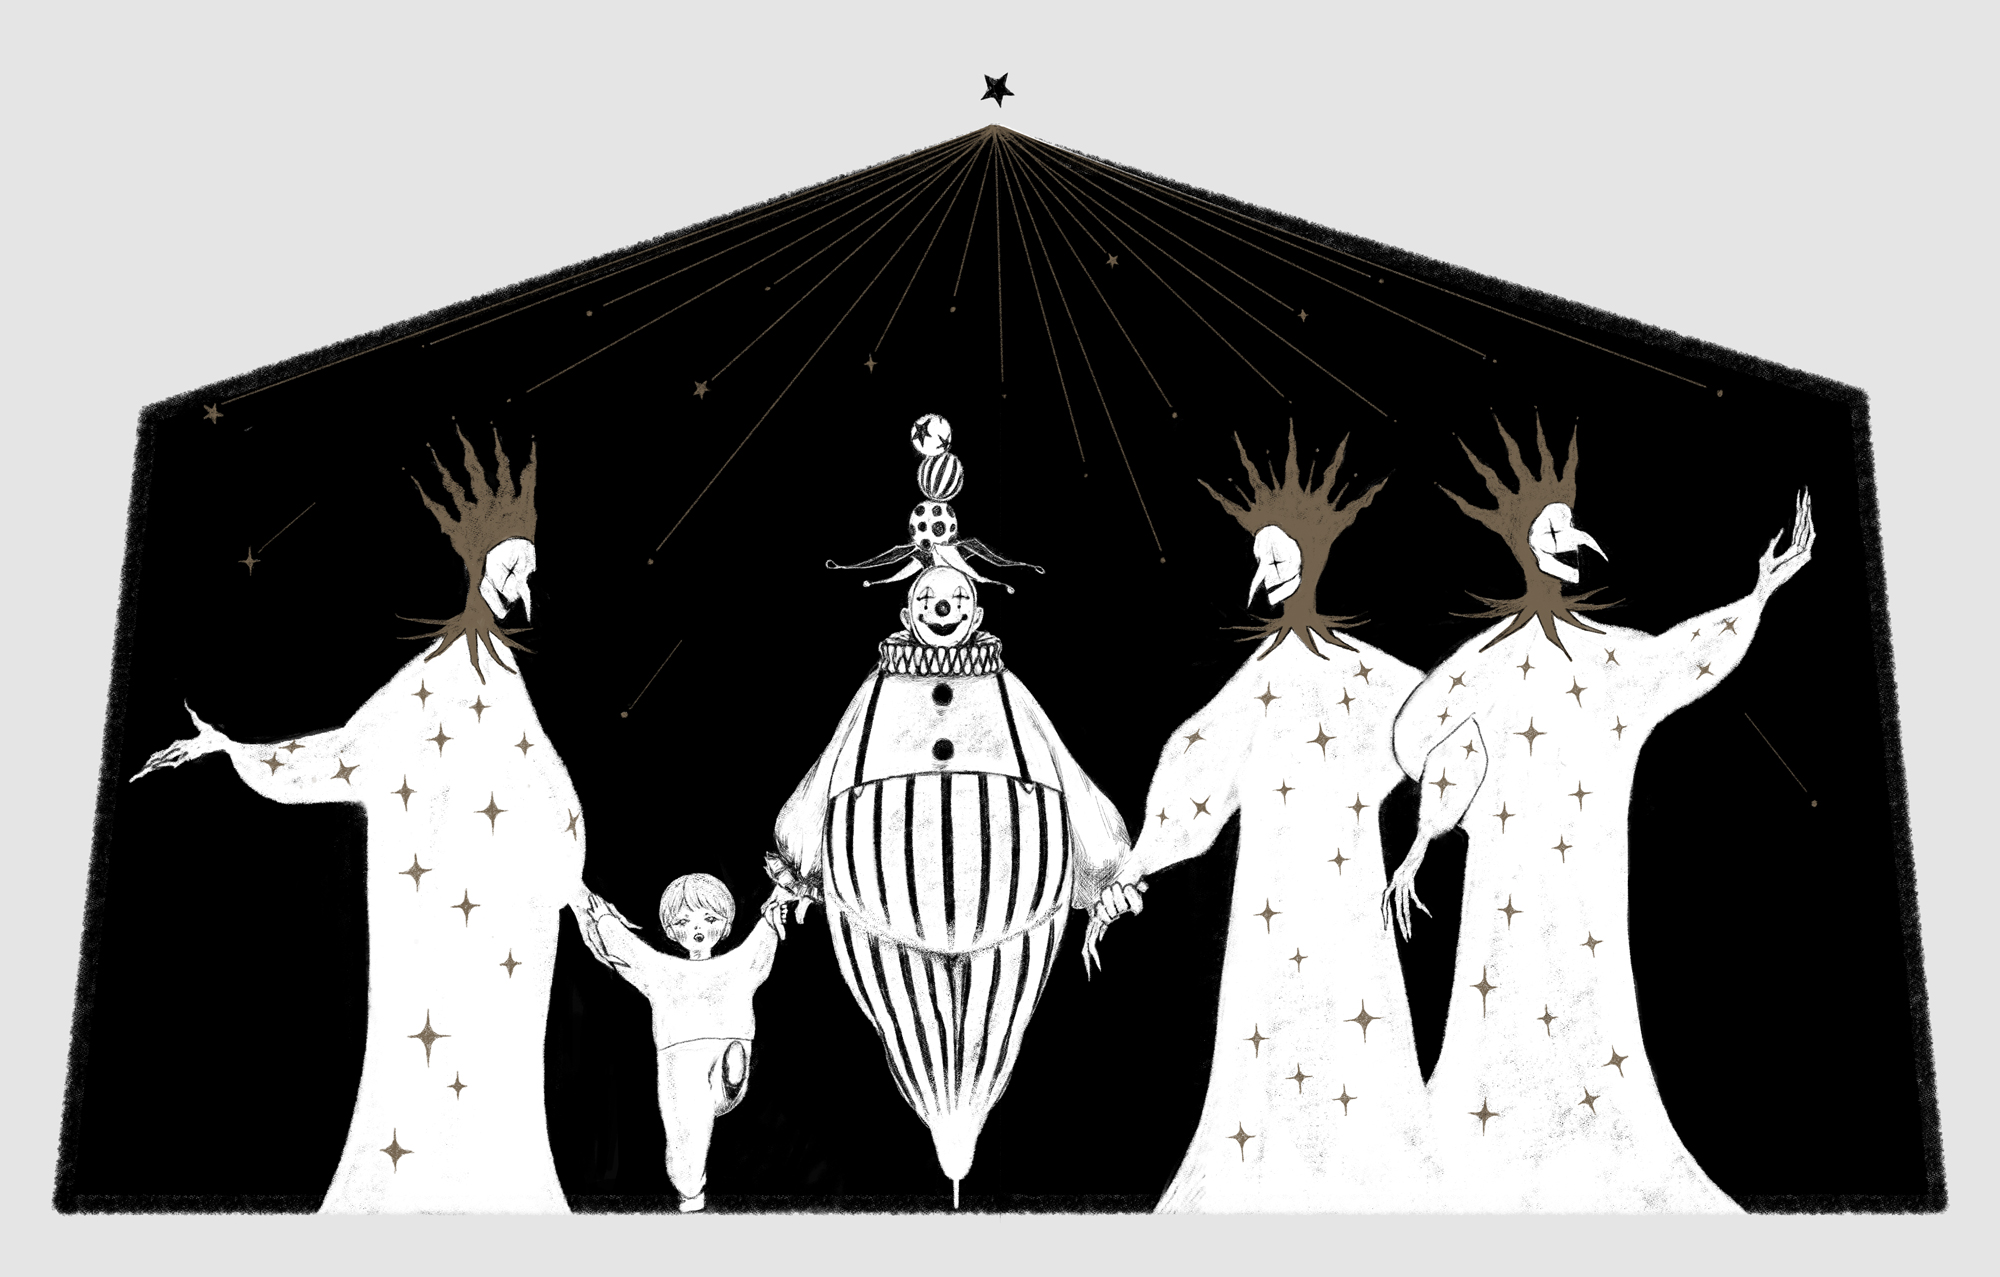
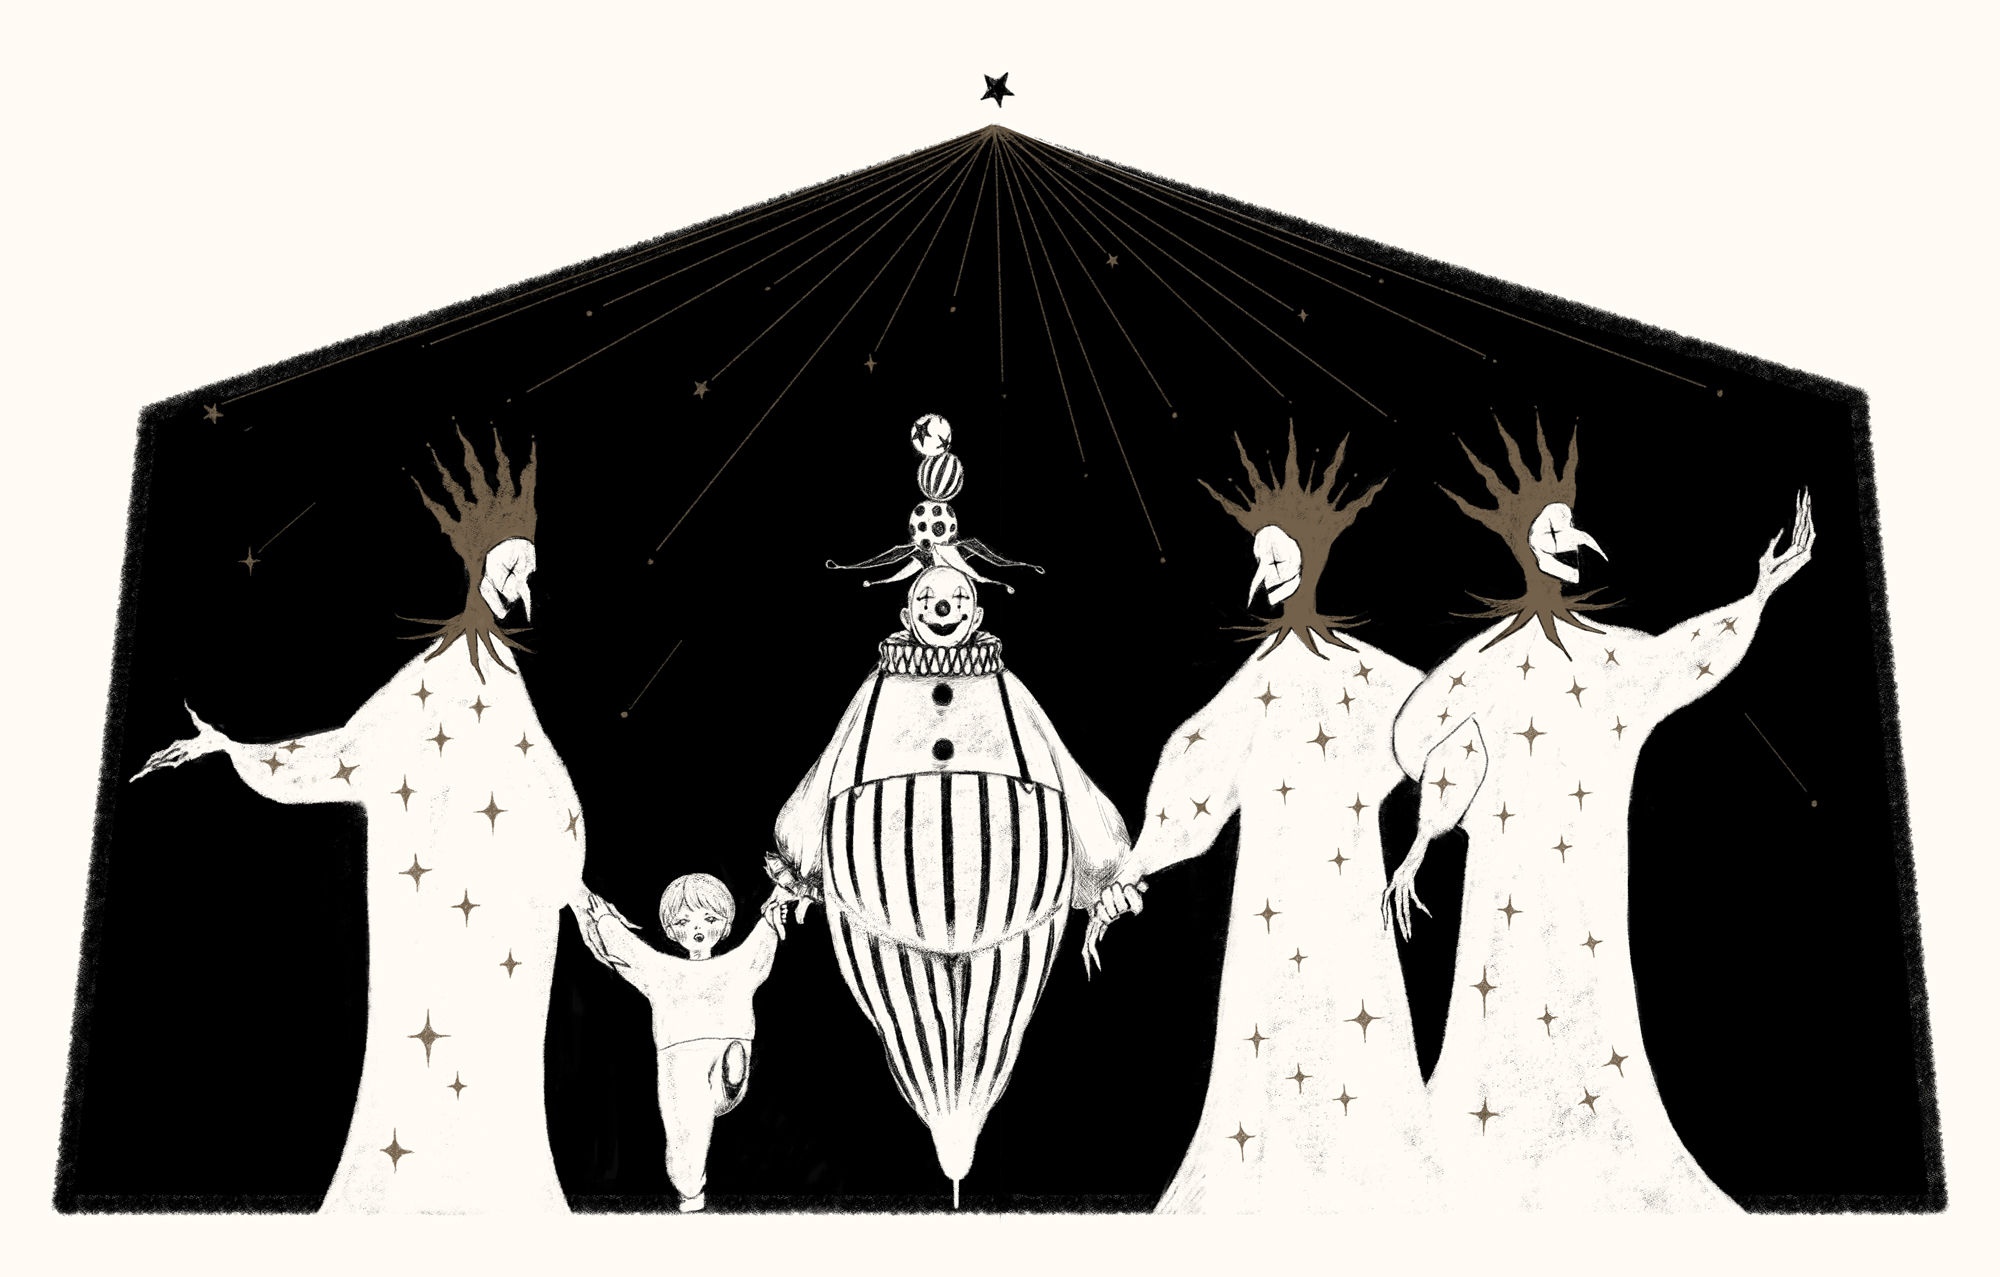
pc xscroll なしに

diff --git a/css/style.min.css b/css/style.min.css
@@ -1,2 +1,2 @@
-body{font-family:"fot-tsukuaoldmin-pr6n",sans-serif;font-weight:300;font-style:normal;letter-spacing:.1em;color:#333132;background:#fffbf4;line-height:1.5}a{text-decoration:none;color:#333132}ul,ol{list-style-type:none}img{max-width:100%;height:auto}.wrapper{max-width:100%;margin:0 auto;padding:0 4%}.flex{display:flex}@media(min-width: 769px){.xScroll{width:100vh;height:100vw;transform:rotate(-90deg) translateX(-100vh);transform-origin:top left;overflow-x:hidden;overflow-y:scroll;position:absolute;scrollbar-width:none;-ms-overflow-style:none;scroll-snap-type:y mandatory;scroll-behavior:smooth}.xScroll__box{display:flex;width:500vw;transform:rotate(90deg) translateY(-100vh);transform-origin:top left}.xScroll__slide{width:100vw;height:100vh;padding-left:0;scroll-snap-align:start}::-webkit-scrollbar{display:none}}header{height:90px;width:100%;padding:0 4%;background:#fffbf4;position:fixed;top:0;z-index:999}.mobile-menu{display:block}@media(min-width: 769px){.mobile-menu{display:none}}.desktop-menu{display:none}@media(min-width: 769px){.desktop-menu{display:block}}.gnav__logo{margin-top:20px;width:70px;height:70px;border-bottom:1px solid #333132}#g-nav{position:fixed;z-index:999;top:0;right:-120%;width:100%;height:100vh;background:#fffbf4;transition:all .6s}#g-nav.panelactive{right:0}#g-nav.panelactive #g-nav-list{position:fixed;z-index:999;width:100%;height:100vh;overflow:auto;-webkit-overflow-scrolling:touch}#g-nav ul{position:absolute;z-index:999;top:50%;left:50%;transform:translate(-50%, -50%)}#g-nav li{list-style:none;text-align:center}#g-nav li a{color:#333132;text-decoration:none;padding:10px;display:block;letter-spacing:.1em;font-weight:bold}.openbtn{position:fixed;z-index:9999;top:4%;right:4%;width:50px;height:50px;cursor:pointer}.openbtn span{display:inline-block;transition:all .4s;position:absolute;left:14px;height:1px;background-color:#333132;width:45%}.openbtn span:nth-of-type(1){top:15px}.openbtn span:nth-of-type(2){top:23px}.openbtn span:nth-of-type(3){top:31px}.openbtn.active span:nth-of-type(1){top:18px;left:18px;transform:translateY(6px) rotate(-45deg);width:30%}.openbtn.active span:nth-of-type(2){opacity:0}.openbtn.active span:nth-of-type(3){top:30px;left:18px;transform:translateY(-6px) rotate(45deg);width:30%}@media(min-width: 769px){header{height:100vh;width:150px;padding:0;top:0;border-right:1px solid #333132}.gnav{font-size:16px;flex-direction:column;justify-content:space-between;align-items:center;height:100vh}.gnav__list{margin-bottom:30px}.gnav__item+.gnav__item{margin-top:15px}.gnav__link:hover{color:#e83929}}.top{padding-left:4%;margin-top:90px;position:relative}@media(min-width: 769px){.top{padding:0;margin:0}}.top__Title{position:absolute;top:8%}@media(min-width: 769px){.top__Title{margin-top:50px;padding-left:200px}}.top__Title h1{font-size:48px;font-weight:normal;margin-bottom:15px;color:#e83929}@media(min-width: 769px){.top__Title h1{font-size:52px}}.top__Title p{font-size:14px;color:#e83929}@media(min-width: 769px){.top__Title p{font-size:18px}}.top__Title p:last-child{display:inline-block;margin-top:10px}#slider{width:90%;height:88vh;margin-right:0;margin-left:auto}@media(min-width: 769px){#slider{width:100%;height:100%;margin-right:auto;margin-left:auto}}section{padding:100px 4% 0 4%}@media(min-width: 769px){section{display:flex;justify-content:space-between;padding:30px 50px}}.sec__title{font-size:40px;font-weight:normal}@media(min-width: 769px){.sec__title{writing-mode:vertical-rl;letter-spacing:.2em;font-size:52px}}.sec__title span{font-size:16px;margin-left:50px}@media(min-width: 769px){.sec__title span{font-size:18px;margin:50px 0 0 0;vertical-align:-8px;letter-spacing:.15em;padding-left:5px}}.sec__title::before{content:"【";font-size:32px;padding-right:10px}@media(min-width: 769px){.sec__title::before{vertical-align:-8px;margin-bottom:10px}}.sec__title::after{content:"】";font-size:32px;padding-left:10px}@media(min-width: 769px){.sec__title::after{vertical-align:-8px;margin-top:10px}}.sec__title__container{align-items:end;margin-bottom:50px}@media(min-width: 769px){.sec__title__container{flex-direction:column;align-items:start;width:10%;vertical-align:top;margin-left:180px;margin-right:50px}}.sec__title__container p{display:block;padding-bottom:10px;margin-left:10px}@media(min-width: 769px){.sec__title__container p{margin:10px 0 0 15px}}.content__title{font-size:24px;margin-bottom:15px;font-weight:normal}.content__title span{font-size:14px}.content__title span::before{content:"/";font-size:24px;padding-right:10px;margin-left:5px}@media(min-width: 769px){.about .sec__content__box{display:flex;justify-content:space-between}}.about__me{margin-bottom:30px}.about__me p{font-size:14px}@media(min-width: 769px){.about__me{width:40%}}@media(min-width: 769px){.about__event{width:53%}}@media(min-width: 769px){.about__event__item{margin-bottom:10px}}.about__event__item dt{margin-bottom:5px;font-size:16px}.about__event__item dd{font-size:12px}.about__event__item time{font-size:12px}.about__event__item span{font-size:12px}.about__event__item span::before{content:"| at";padding-right:5px;margin-left:10px}.skill__container{display:grid;grid-template-columns:repeat(auto-fit, minmax(300px, 1fr));gap:40px}.skill__container dl dd{font-size:14px}.works .sec__content__box{width:90%}.works__list{font-size:18px;margin-bottom:30px;justify-content:center;flex-wrap:wrap}.works__item+.works__item::before{content:"|";font-size:18px;margin:0 20px}.works__glid__box{display:grid;grid-template-columns:repeat(auto-fit, minmax(250px, 1fr));gap:30px}.worksglid__itemfigcaption{font-size:14px}.works__glid__cap{font-size:12px;margin-bottom:5px}.works__glid__cap p::after{content:"|";font-size:10px;padding-left:10px;margin-right:10px}.contact{padding-bottom:0}@media(min-width: 769px){.contact__box{position:relative;width:100%}.contact__box footer{height:50px;padding-top:20%;background-position:bottom 50px;position:absolute;bottom:0;right:0}}footer{color:#e83929;width:100%;padding-top:40%;margin-bottom:30px;text-align:center;background-image:url(../img/footer.jpg);background-position:top center;background-size:contain;mix-blend-mode:multiply}footer small{font-size:11px}
+body{font-family:"fot-tsukuaoldmin-pr6n",sans-serif;font-weight:300;font-style:normal;letter-spacing:.1em;color:#333132;background:#faf9f6;line-height:1.5}a{text-decoration:none;color:#333132}ul,ol{list-style-type:none}img{max-width:100%;height:auto}.wrapper{max-width:100%;margin:0 auto;padding:0 4%}.flex{display:flex}header{height:90px;width:100%;padding:0 4%;background:#faf9f6;position:fixed;top:0;z-index:999}.mobile-menu{display:block}@media(min-width: 769px){.mobile-menu{display:none}}.desktop-menu{display:none}@media(min-width: 769px){.desktop-menu{display:block}}.gnav__logo{margin-top:20px;width:70px;height:70px;border-bottom:1px solid #333132}#g-nav{position:fixed;z-index:999;top:0;right:-120%;width:100%;height:100vh;background:#faf9f6;transition:all .6s}#g-nav.panelactive{right:0}#g-nav.panelactive #g-nav-list{position:fixed;z-index:999;width:100%;height:100vh;overflow:auto;-webkit-overflow-scrolling:touch}#g-nav ul{position:absolute;z-index:999;top:50%;left:50%;transform:translate(-50%, -50%)}#g-nav li{list-style:none;text-align:center}#g-nav li a{color:#333132;text-decoration:none;padding:10px;display:block;letter-spacing:.1em;font-weight:bold}.openbtn{position:fixed;z-index:9999;top:4%;right:4%;width:50px;height:50px;cursor:pointer}.openbtn span{display:inline-block;transition:all .4s;position:absolute;left:14px;height:1px;background-color:#333132;width:45%}.openbtn span:nth-of-type(1){top:15px}.openbtn span:nth-of-type(2){top:23px}.openbtn span:nth-of-type(3){top:31px}.openbtn.active span:nth-of-type(1){top:18px;left:18px;transform:translateY(6px) rotate(-45deg);width:30%}.openbtn.active span:nth-of-type(2){opacity:0}.openbtn.active span:nth-of-type(3){top:30px;left:18px;transform:translateY(-6px) rotate(45deg);width:30%}@media(min-width: 769px){header{padding:0 4%;top:0;border-right:1px solid #333132}.gnav{font-size:16px;justify-content:space-between;align-items:center}.gnav__list{display:flex}.gnav__item+.gnav__item{margin-left:20px}.gnav__link:hover{color:#e83929}}.top{padding-left:4%;margin-top:90px;position:relative}@media(min-width: 769px){.top{padding:0;margin:0}}.top__Title{position:absolute;top:8%}@media(min-width: 769px){.top__Title{margin-top:50px;padding-left:200px}}.top__Title h1{font-size:48px;font-weight:normal;margin-bottom:15px;color:#e83929}@media(min-width: 769px){.top__Title h1{font-size:52px}}.top__Title p{font-size:14px;color:#e83929}@media(min-width: 769px){.top__Title p{font-size:18px}}.top__Title p:last-child{display:inline-block;margin-top:10px}#slider{width:90%;height:88vh;margin-right:0;margin-left:auto}@media(min-width: 769px){#slider{width:100%;height:100%;margin-right:auto;margin-left:auto}}section{padding:100px 4% 0 4%}@media(min-width: 769px){section{display:flex;justify-content:space-between;padding:30px 50px}}.sec__title{font-size:40px;font-weight:normal}@media(min-width: 769px){.sec__title{writing-mode:vertical-rl;letter-spacing:.2em;font-size:52px}}.sec__title span{font-size:16px;margin-left:50px}@media(min-width: 769px){.sec__title span{font-size:18px;margin:50px 0 0 0;vertical-align:-8px;letter-spacing:.15em;padding-left:5px}}.sec__title::before{content:"【";font-size:32px;padding-right:10px}@media(min-width: 769px){.sec__title::before{vertical-align:-8px;margin-bottom:10px}}.sec__title::after{content:"】";font-size:32px;padding-left:10px}@media(min-width: 769px){.sec__title::after{vertical-align:-8px;margin-top:10px}}.sec__title__container{align-items:end;margin-bottom:50px}@media(min-width: 769px){.sec__title__container{flex-direction:column;align-items:start;width:10%;vertical-align:top;margin-left:180px;margin-right:50px}}.sec__title__container p{display:block;padding-bottom:10px;margin-left:10px}@media(min-width: 769px){.sec__title__container p{margin:10px 0 0 15px}}.content__title{font-size:24px;margin-bottom:15px;font-weight:normal}.content__title span{font-size:14px}.content__title span::before{content:"/";font-size:24px;padding-right:10px;margin-left:5px}@media(min-width: 769px){.about .sec__content__box{display:flex;justify-content:space-between}}.about__me{margin-bottom:30px}.about__me p{font-size:14px}@media(min-width: 769px){.about__me{width:40%}}@media(min-width: 769px){.about__event{width:53%}}@media(min-width: 769px){.about__event__item{margin-bottom:10px}}.about__event__item dt{margin-bottom:5px;font-size:16px}.about__event__item dd{font-size:12px}.about__event__item time{font-size:12px}.about__event__item span{font-size:12px}.about__event__item span::before{content:"| at";padding-right:5px;margin-left:10px}.skill__container{display:grid;grid-template-columns:repeat(auto-fit, minmax(300px, 1fr));gap:40px}.skill__container dl dd{font-size:14px}.works .sec__content__box{width:90%}.works__list{font-size:18px;margin-bottom:30px;justify-content:center;flex-wrap:wrap}.works__item+.works__item::before{content:"|";font-size:18px;margin:0 20px}.works__glid__box{display:grid;grid-template-columns:repeat(auto-fit, minmax(250px, 1fr));gap:30px}@media(min-width: 769px){.works__glid__box{grid-template-columns:repeat(auto-fit, minmax(200px, 1fr))}}.worksglid__itemfigcaption{font-size:14px}.works__glid__cap{font-size:12px;margin-bottom:5px}.works__glid__cap p::after{content:"|";font-size:10px;padding-left:10px;margin-right:10px}.contact{padding-bottom:0}@media(min-width: 769px){.contact__box{position:relative;width:100%}.contact__box footer{height:50px;padding-top:20%;background-position:bottom 50px;position:absolute;bottom:0;right:0}}footer{color:#e83929;width:100%;padding-top:40%;margin-bottom:30px;text-align:center;background-image:url(../img/footer.jpg);background-position:top center;background-size:contain;mix-blend-mode:multiply}footer small{font-size:11px}
 /*# sourceMappingURL=style.min.css.map */

diff --git a/css/style.scss b/css/style.scss
@@ -9,7 +9,7 @@ $pc: 769px;
     }
 }
 
-$white-color:#FFFBF4
+$white-color:#FAF9F6
 /* #f8f8f8 */
 ;
 $black-color:#333132;
@@ -63,42 +63,42 @@ img {
 
 //xscroll-----------------------------------
 
-@include pc {
-    .xScroll {
-        width: 100vh;
-        height: 100vw;
-        transform: rotate(-90deg) translateX(-100vh);
-        transform-origin: top left;
-        overflow-x: hidden;
-        overflow-y: scroll;
-        position: absolute;
-        scrollbar-width: none;
-        -ms-overflow-style: none;
-        scroll-snap-type: y mandatory;
-        scroll-behavior: smooth;
+// @include pc {
+//     .xScroll {
+//         width: 100vh;
+//         height: 100vw;
+//         transform: rotate(-90deg) translateX(-100vh);
+//         transform-origin: top left;
+//         overflow-x: hidden;
+//         overflow-y: scroll;
+//         position: absolute;
+//         scrollbar-width: none;
+//         -ms-overflow-style: none;
+//         scroll-snap-type: y mandatory;
+//         scroll-behavior: smooth;
 
 
-        &__box {
-            display: flex;
-            width: 500vw;
-            transform: rotate(90deg) translateY(-100vh);
-            transform-origin: top left;
-        }
+//         &__box {
+//             display: flex;
+//             width: 500vw;
+//             transform: rotate(90deg) translateY(-100vh);
+//             transform-origin: top left;
+//         }
 
-        &__slide {
-            width: 100vw;
-            height: 100vh;
-            padding-left: 0;
-            scroll-snap-align: start;
-        }
+//         &__slide {
+//             width: 100vw;
+//             height: 100vh;
+//             padding-left: 0;
+//             scroll-snap-align: start;
+//         }
 
-    }
+//     }
 
-    ::-webkit-scrollbar {
-        display: none;
-    }
+//     ::-webkit-scrollbar {
+//         display: none;
+//     }
 
-}
+// }
 
 
 //header-------------------------------------
@@ -253,9 +253,9 @@ header {
 
 @include pc {
     header {
-        height: 100vh;
-        width: 150px;
-        padding: 0;
+        // height: 100vh;
+        // width: 150px;
+        padding: 0 4%;
         top: 0;
         border-right: 1px solid $black-color;
     }
@@ -263,18 +263,19 @@ header {
     .gnav {
         // margin-left: 30px;
         font-size: 16px;
-        flex-direction: column;
+        // flex-direction: column;
         justify-content: space-between;
         align-items: center;
-        height: 100vh;
+        // height: 100vh;
 
         &__list {
             // margin-top: 50px;
-            margin-bottom: 30px;
+            // margin-bottom: 30px;
+            display: flex;
         }
 
         &__item+&__item {
-            margin-top: 15px;
+            margin-left: 20px;
         }
 
         &__link:hover {
@@ -569,6 +570,10 @@ section {
         display: grid;
         grid-template-columns: repeat(auto-fit, minmax(250px, 1fr));
         gap: 30px;
+        @include pc{
+            grid-template-columns: repeat(auto-fit, minmax(200px, 1fr));
+
+        }
 
     }
 

diff --git a/css/style.css b/css/style.css
@@ -5,7 +5,7 @@ body {
   font-style: normal;
   letter-spacing: 0.1em;
   color: #333132;
-  background: #FFFBF4;
+  background: #FAF9F6;
   line-height: 1.5;
 }
 
@@ -34,41 +34,11 @@ img {
   display: flex;
 }
 
-@media (min-width: 769px) {
-  .xScroll {
-    width: 100vh;
-    height: 100vw;
-    transform: rotate(-90deg) translateX(-100vh);
-    transform-origin: top left;
-    overflow-x: hidden;
-    overflow-y: scroll;
-    position: absolute;
-    scrollbar-width: none;
-    -ms-overflow-style: none;
-    scroll-snap-type: y mandatory;
-    scroll-behavior: smooth;
-  }
-  .xScroll__box {
-    display: flex;
-    width: 500vw;
-    transform: rotate(90deg) translateY(-100vh);
-    transform-origin: top left;
-  }
-  .xScroll__slide {
-    width: 100vw;
-    height: 100vh;
-    padding-left: 0;
-    scroll-snap-align: start;
-  }
-  ::-webkit-scrollbar {
-    display: none;
-  }
-}
 header {
   height: 90px;
   width: 100%;
   padding: 0 4%;
-  background: #FFFBF4;
+  background: #FAF9F6;
   position: fixed;
   top: 0;
   z-index: 999;
@@ -109,7 +79,7 @@ header {
   width: 100%;
   height: 100vh;
   /*ナビの高さ*/
-  background: #FFFBF4;
+  background: #FAF9F6;
   /*動き*/
   transition: all 0.6s;
 }
@@ -211,24 +181,20 @@ header {
 
 @media (min-width: 769px) {
   header {
-    height: 100vh;
-    width: 150px;
-    padding: 0;
+    padding: 0 4%;
     top: 0;
     border-right: 1px solid #333132;
   }
   .gnav {
     font-size: 16px;
-    flex-direction: column;
     justify-content: space-between;
     align-items: center;
-    height: 100vh;
   }
   .gnav__list {
-    margin-bottom: 30px;
+    display: flex;
   }
   .gnav__item + .gnav__item {
-    margin-top: 15px;
+    margin-left: 20px;
   }
   .gnav__link:hover {
     color: #E83929;
@@ -468,6 +434,11 @@ section {
   display: grid;
   grid-template-columns: repeat(auto-fit, minmax(250px, 1fr));
   gap: 30px;
+}
+@media (min-width: 769px) {
+  .works__glid__box {
+    grid-template-columns: repeat(auto-fit, minmax(200px, 1fr));
+  }
 }
 .worksglid__itemfigcaption {
   font-size: 14px;
